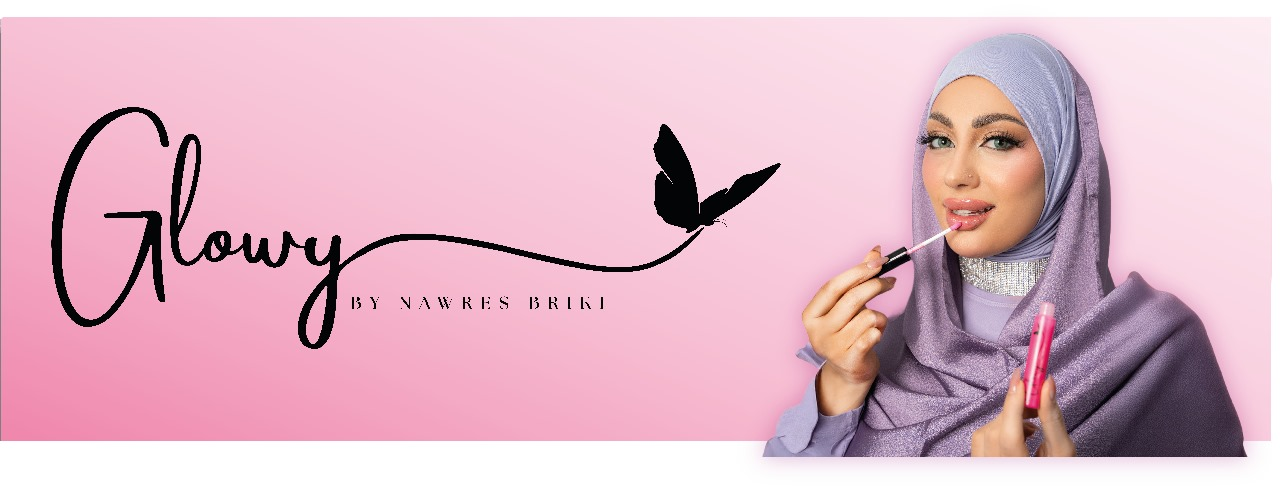
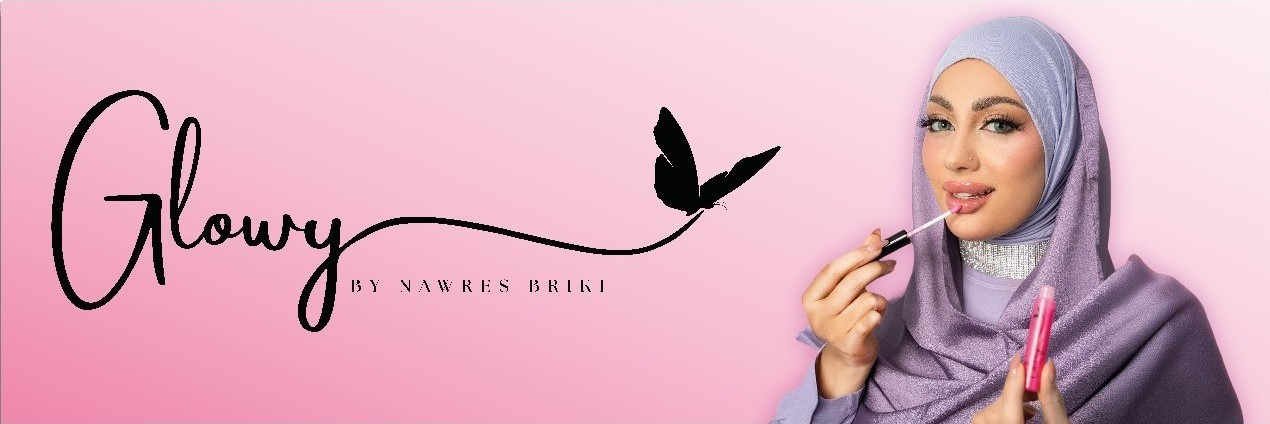
update style home

Changed region(s): [[0.0, 0.0, 1.0, 1.0], [0.0307, 0.2453, 0.6142, 0.7972], [0.0614, 0.2146, 0.1228, 0.2453]]

diff --git a/src/scences/home/home.css b/src/scences/home/home.css
@@ -26,10 +26,12 @@
 
 #shop .item img {
     width: 100%;
-    height: auto;
+    height: 300px;               /* or adjust to your desired image box height */
+    object-fit: contain;         /* show entire image without cropping */
     margin-bottom: 1rem;
-}
-
+    border-radius: 8px;          /* optional rounded corners */
+    background-color: #fff;      /* optional: prevent background transparency issues */
+  }
 #shop .item h3 {
     margin-bottom: 0.5rem;
 }
@@ -118,7 +120,23 @@
 .nav-menu {
     display: flex;
 }
-
+.responsive-banner {
+    background-image: url('./background.jpg');
+    background-size: cover; /* Fill the space */
+    background-position: top center;
+    background-repeat: no-repeat;
+    width: 100%;
+    height: 500px; /* adjust based on design */
+    padding: 0;
+    margin: 0;
+    display: flex;
+    justify-content: center;
+    align-items: flex-end;
+  }
+  main, section#home, section#shop {
+    margin: 0;
+    padding: 0;
+  }
 @media (max-width: 768px) {
     .menu-toggle {
         display: block;
@@ -151,6 +169,15 @@
     .nav-menu li a:hover {
         background: #f4f4f4;
     }
+    .responsive-banner {
+        height: auto;
+        min-height: auto;
+        aspect-ratio: 16 / 9; /* or adjust as needed */
+        background-position: center center;
+        background-size: cover;
+        margin-bottom: 0;
+        padding-bottom: 0;
+      }
 }
 
 .item-container {
@@ -176,7 +203,10 @@
     display: flex;
     justify-content: center;
     flex-wrap: wrap;
-}
+    padding-top: 1rem; /* or 0 if you want it touching */
+    padding-bottom: 2rem;
+    margin-top: 0;
+  }
 
 .item-container {
     margin: 10px;

diff --git a/src/scences/home/index.js b/src/scences/home/index.js
@@ -64,23 +64,15 @@ function HomePage() {
 
   return (
     <div>
-      <main>
-        <section 
+      <main style={{ margin: 0, padding: 0 }}>
+      <section 
           id="home" 
-          className="banner"
-          style={{
-            backgroundImage: `url(${backgroundImage})`,
-            backgroundSize: 'cover',
-            backgroundPosition: 'center',
-            height: '60vh',
-            width: '100%',
-          }}
+          className="responsive-banner"
         >
-          <Box sx={{ height: '100%', display: 'flex', alignItems: 'center', justifyContent: 'center' }}>
+          {/* <Box sx={{ height: '100%', display: 'flex', alignItems: 'center', justifyContent: 'center' }}> */}
             {/* You can put a title or tagline here if you want */}
-          </Box>
+          {/* </Box> */}
         </section>
-
         <section id="shop" className="shop-section">
           {products.length > 0 ? (
             products.map((product) => (
